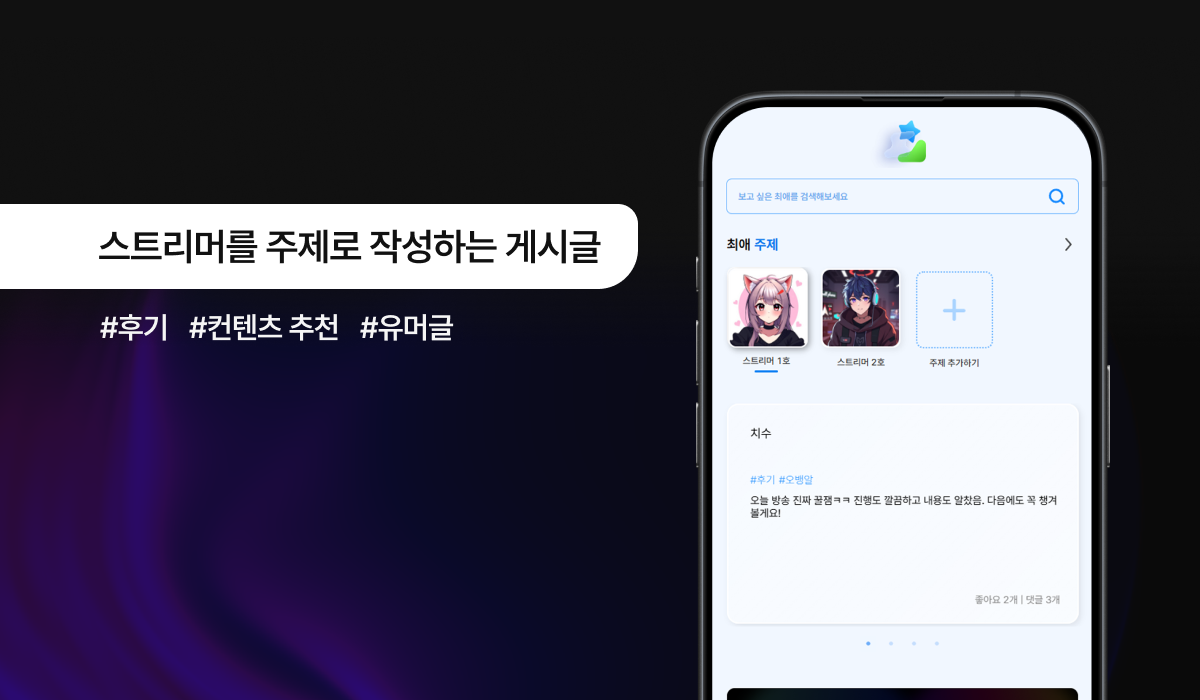
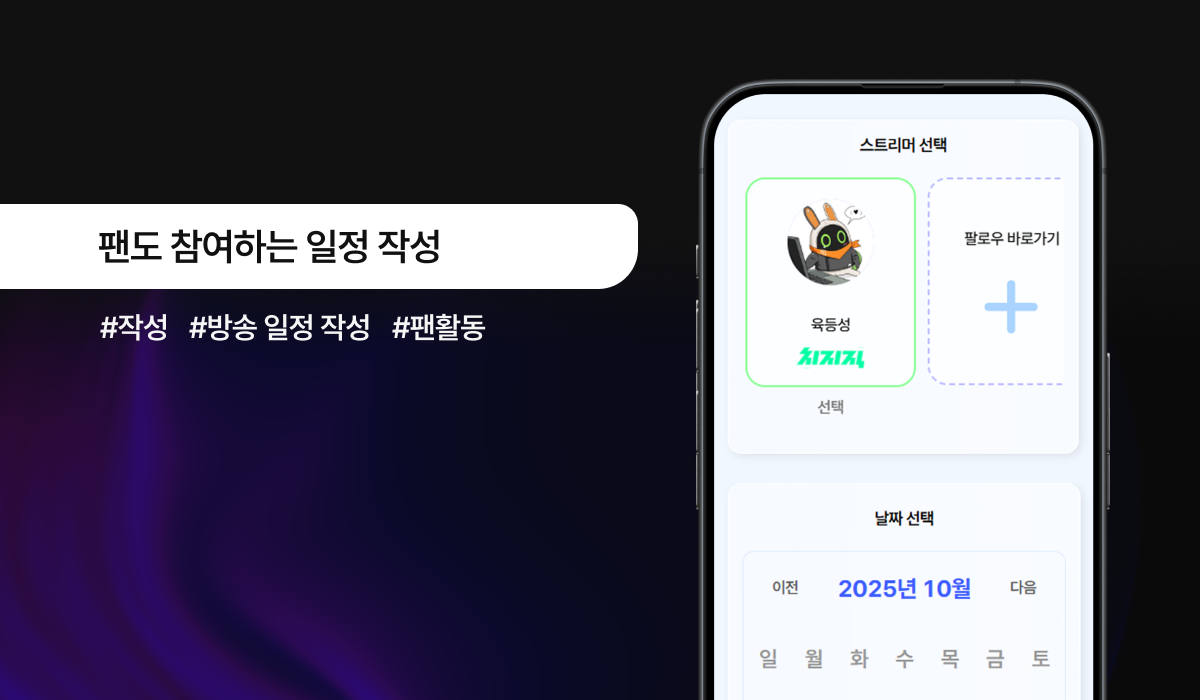
브랜드 페이지 내용 변경 중

diff --git a/nova_web/src/pages/BrandPage/brandPage.jsx b/nova_web/src/pages/BrandPage/brandPage.jsx
@@ -277,18 +277,18 @@ function AppServices1({targetRef}){
 
     const features = [
         {
-            tag1: "커뮤니티",
-            tag2: "소통",
-            title: "스트리머와 팬이 소통하는 커뮤니티",
-            detail: "스트리머를 주제로 하는 커뮤니티에서 팬들과 소통해보세요!",
+            tag1: "콘텐츠",
+            tag2: "팬참여",
+            title: "팬도 함께 적는 콘텐츠 일정 작성",
+            detail: "방송 일정을 팬들과 함께 쉽고 빠르게 올려보세요!",
             image: intro1,
-            button: "커뮤니티 바로가기"
+            button: "일정 작성 바로가기"
         },
         {
             tag1: "스트리밍",
             tag2: "일정",
-            title: "방송 일정과 알림 기능",
-            detail: "스트리머의 방송 일정을 확인하고 다양한 콘텐츠를 탐색해보세요!",
+            title: "나만의 방송 일정 대시보드",
+            detail: "흩어져 있는 방송 일정들을 한 곳에서 쉽고 빠르게 확인해요!",
             image: intro2,
             button: "일정 확인하기"
         },
@@ -301,12 +301,12 @@ function AppServices1({targetRef}){
             button: "콘텐츠 공유하기"
         },
         {
-            tag1: "탐색",
-            tag2: "콘텐츠",
-            title: "등록된 콘텐츠를 탐색하고 추가하기",
-            detail: "누구나 최애의 콘텐츠를 등록하거나 탐색할 수 있어요!",
+            tag1: "편성표",
+            tag2: "주간일정",
+            title: "한눈에 보는 주간 방송 일정표",
+            detail: "스트리머의 방송 일정을 확인하고 다양한 콘텐츠를 탐색해보세요!",
             image: intro4,
-            button: "콘텐츠 공유하기"
+            button: "주간 일정 탐색하기"
         },
     ]
 
@@ -335,7 +335,7 @@ function AppServices2({targetRef}) {
     const title = "SUPERNOVA에서만 제공하는 스트리밍 전용 콘텐츠";
     const subtitle = "지원되는 플랫폼에서 스트리밍 하는 스트리머들은 누구나 사용가능!\n  SUPERNOVA의 스트리밍 전용 콘텐츠를 시청자와 함께 지금 바로 즐겨보세요!"
 
-    let cards = [
+    const cards = [
         {
         key: "1",
         content: (
